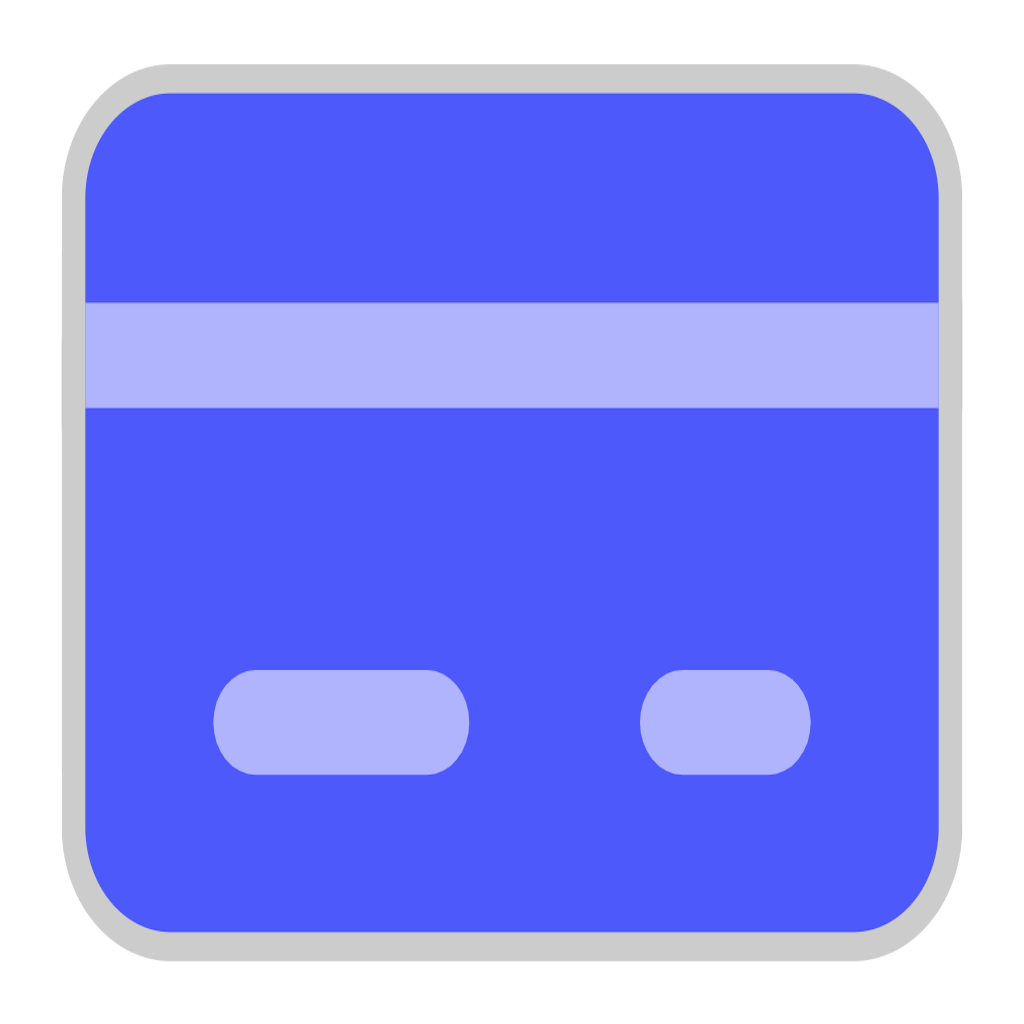
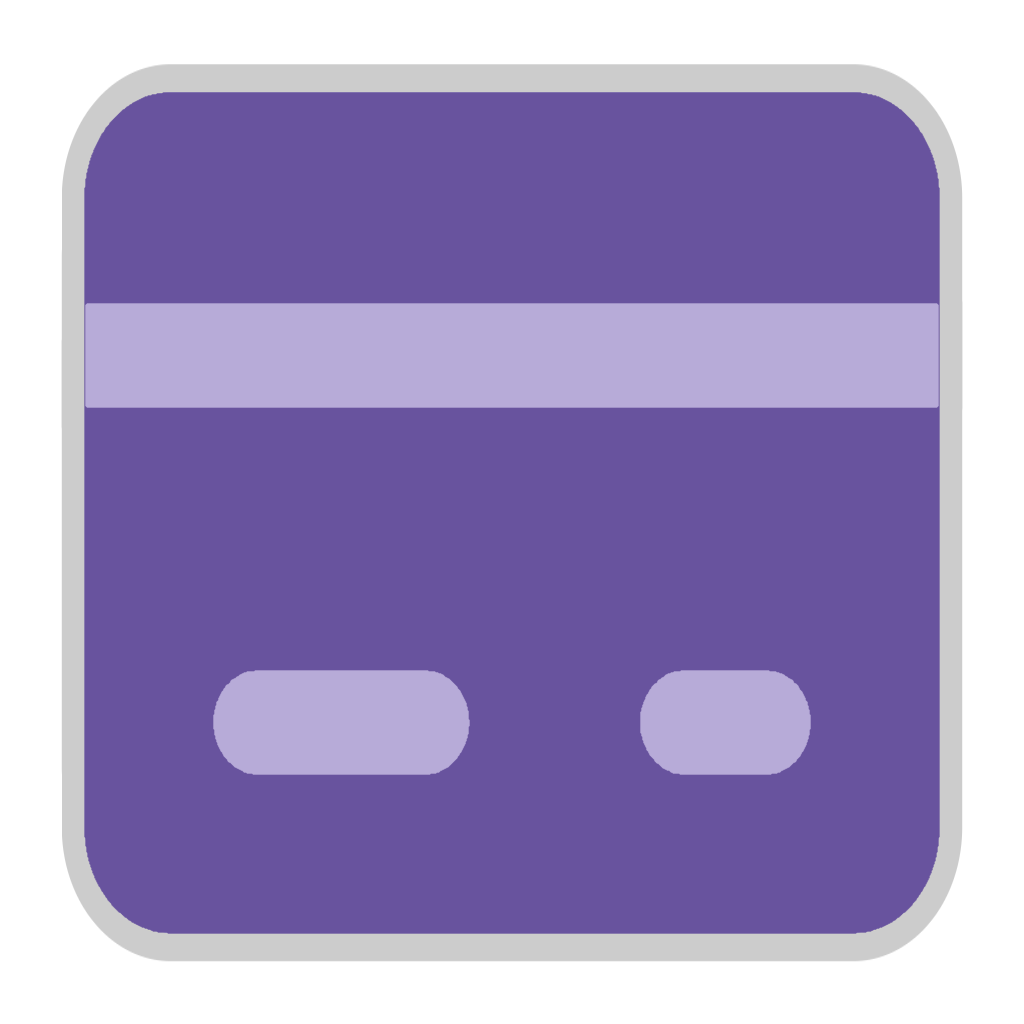
изменение цветовой гаммы всего

diff --git a/flip_cards_app/static/flip_cards_app/css/main.css b/flip_cards_app/static/flip_cards_app/css/main.css
@@ -27,12 +27,14 @@ h1 {
   text-align: center;
   /*font-family: cursive;*/
   /* font-family: "Pacifico", cursive; */
-  color: #afb4fd;
+  /* color: #afb4fd; */
+  color: #4A6042;
 }
 .all_text {
   /*font-family: cursive;
   /* font-family: "Pacifico", cursive; */
-  color: #afb4fd;
+  /* color: #afb4fd; */
+  color: #4A6042;
 }
 h4 {
   /*font-family: cursive;
@@ -51,13 +53,21 @@ span {
 }
 
 .pagination {
-  --bs-pagination-color: #4d59fb;
+  --bs-pagination-color: #68539E;
   --bs-pagination-hover-color: #6d6d6d;
-  --bs-pagination-active-color: #fff;
+  --bs-pagination-active-color: #eae7dc;
   --bs-pagination-active-border-color: #afb4fd;
-  --bs-pagination-active-bg: #4d59fb;
-  --bs-pagination-hover-bg: #9dcbf3;
+  --bs-pagination-active-bg: #68539E;
+  --bs-pagination-hover-bg: #B7ABD8;
   --bs-pagination-border-color: #afb4fd;
+}
+
+.navbar {
+  --bs-navbar-color: #4A6042
+}
+
+.card {
+  --bs-card-bg: #eae7dc;
 }
 
 /* select option:checked {
@@ -77,13 +87,13 @@ input[type="radio"] {
 }
 
 input[type="radio"]:checked + .btn {
-  color: #fff;
+  color: #eae7dc;
   background: #1b5589 !important;
   border-color: #1b5589 !important;
 }
 
 input[type="radio"]:hover + .btn {
-  color: #fff;
+  color: #eae7dc;
   background-color: #9dcbf3;
 }
 
@@ -112,7 +122,7 @@ button[type="reset"] {
   display: none;
   padding: 0 10px;
   border-radius: 50%;
-  background-color: #fff;
+  background-color: #eae7dc;
   transition: background 200ms;
   outline: none;
 
@@ -137,9 +147,7 @@ input:valid ~ button[type="reset"] {
   min-height: 10vh;
 }
 body {
-  /* background: -webkit-linear-gradient(-45deg, #8363a1 0%, #74a8c3 100%); */
-  /* background: linear-gradient(135deg, #8363a1 0%, #74a8c3 100%); } */
-  background: #4d59fb;
+  background: #B8CEB3;
 }
 h2 {
   text-align: center;
@@ -157,7 +165,7 @@ label, .helptext {
   text-align: center"
 }
 .card1 {
-  background-color: #fff;
+  background-color: #eae7dc;
   padding: 8px 11px;
   color: #555;
   cursor: pointer;
@@ -178,9 +186,9 @@ label, .helptext {
 }
 
 .black {
-  background-color: #1d2731;
-  color: #fff;
-  border-color: #1d2731;
+  background-color: #68539E;
+  color: #eae7dc;
+  border-color: #68539E;
 }
 .table {
   display: none;
@@ -192,18 +200,14 @@ label, .helptext {
 }
 
 .btn-primary {
-  background-color: #4d59fb !important;
+  background-color: #68539E !important;
   border-color: #afb4fd !important;
 
   &:hover {
-    background-color:  #9dcbf3 !important;
-    border-color:  #9dcbf3 !important;
-    color: #4d59fb !important;
+    background-color:  #B7ABD8 !important;
+    border-color:  #B7ABD8 !important;
+    color: #68539E !important;
   }
-    /* --bs-pagination-color: #4d59fb;
-  --bs-pagination-hover-color: #6d6d6d;
-  --bs-pagination-active-color: #fff;
-  --bs-pagination-active-border-color: #afb4fd; */
 }
 
 @media (max-width:760px) {

diff --git a/flip_cards_app/templates/includes/word_preview_favorite.html b/flip_cards_app/templates/includes/word_preview_favorite.html
@@ -11,16 +11,16 @@
     <div class="col-md-9">
       <div class="card-header d-flex">
         {% if word.is_learned %}
-            <a href="#" class="learned-btn" data-word-id="{{ word.id }}"><i title="Слово изучено" class="bbi bi-patch-check-fill ms-2 h5"></i></a>
+            <a href="#" class="learned-btn" data-word-id="{{ word.id }}"><i title="Слово изучено" class="bbi bi-patch-check-fill ms-2 h5"  style="color:#68539E"></i></a>
         {% else %}
-            <a href="#" class="learned-btn" data-word-id="{{ word.id }}"><i title="Слово не изучено" class="bi bi-patch-check ms-2 h5"></i></a>
+            <a href="#" class="learned-btn" data-word-id="{{ word.id }}"><i title="Слово не изучено" class="bi bi-patch-check ms-2 h5"  style="color:#68539E"></i></a>
         {% endif %}
-            <a href="#" class="favorites-button favorited" data-word-id="{{ word.word.id }}"><i title="Добавить/удалить слово в избранное" class="bi bi-star-fill ms-2 h5"></i></a>
+            <a href="#" class="favorites-button favorited" data-word-id="{{ word.word.id }}"><i title="Добавить/удалить слово в избранное" class="bi bi-star-fill ms-2 h5"  style="color:#68539E"></i></a>
         <span class="ms-auto"><i title="Количество правильных ответов" class="fa-regular fa-face-smile fa-xl" style="color: #31d41c;"></i> - {{ word.rights_word }} <i title="Количество неправильных ответов" class="fa-regular fa-face-angry fa-xl" style="color: #e70d0d;"></i> - {{ word.errors_word }}</span>    
       </div>
       <div class="card-body text-center">
         <h4 class="card-title">{{ word.word.en_word }}
-          <a href="#" class="play-audio-button" data-word="{{ word.word.en_word }}"><i class="bi bi-volume-up ms-2"></i></a>
+          <a href="#" class="play-audio-button" data-word="{{ word.word.en_word }}"><i class="bi bi-volume-up ms-2"  style="color:#68539E"></i></a>
         </h4>
         <p class="card-text text-muted">{{ word.word.transcription }}</p>
         <h4 class="card-text">{{ word.word.rus_word }}</h4>

diff --git a/flip_cards_app/templates/includes/word_preview.html b/flip_cards_app/templates/includes/word_preview.html
@@ -11,17 +11,17 @@
       <div class="card-header text-end">
         {% if user.is_authenticated %}
           {% if user in word.favorites_word.all %}
-            <a href="#" class="favorites-button favorited" data-word-id="{{ word.id }}"><i class="bi bi-star-fill ms-2 h5"></i></a>
+            <a href="#" class="favorites-button favorited" data-word-id="{{ word.id }}"><i class="bi bi-star-fill ms-2 h5"  style="color:#68539E"></i></a>
           {% else %}
-            <a href="#" class="favorites-button" data-word-id="{{ word.id }}"><i class="bi bi-star ms-2 h5"></i></a>
+            <a href="#" class="favorites-button" data-word-id="{{ word.id }}"><i class="bi bi-star ms-2 h5"  style="color:#68539E"></i></a>
           {% endif %}
         {% else %}
-            <a href="{% url 'users:login' %}"><i class="bi bi-star ms-2 h5"></i></a>
+            <a href="{% url 'users:login' %}"><i class="bi bi-star ms-2 h5" style="color:#68539E"></i></a>
         {% endif %} 
       </div>
       <div class="card-body text-center">
         <h4 class="card-title">{{ word.en_word }}
-          <a href="#" class="play-audio-button" data-word="{{ word.en_word }}"><i class="bi bi-volume-up ms-2"></i></a>
+          <a href="#" class="play-audio-button" data-word="{{ word.en_word }}"><i class="bi bi-volume-up ms-2"  style="color:#68539E"></i></a>
         </h4>
         <p class="card-text text-muted">{{ word.transcription }}</p>
         <h4 class="card-text">{{ word.rus_word }}</h4>

diff --git a/flip_cards_app/templates/includes/flip_card.html b/flip_cards_app/templates/includes/flip_card.html
@@ -13,7 +13,7 @@
           </div>
           <div class="back">
             <h2>{{ word.word.rus_word }}
-              <a href="#" class="play-audio-button" data-word="{{ word.word.en_word }}"><i class="bi bi-volume-up ms-2"></i></a>
+              <a href="#" class="play-audio-button" data-word="{{ word.word.en_word }}"><i class="bi bi-volume-up ms-2" style="color:#68539E"></i></a>
             </h2>
             <div class="card_footer">
               <button class="btn btn-primary learned-btn" data-word-id="{{ word.id }}""><i class="bbi bi-patch-check-fill me-2"></i>Запомнил</button>

diff --git a/flip_cards_app/static/flip_cards_app/js/main.js b/flip_cards_app/static/flip_cards_app/js/main.js
@@ -14,15 +14,15 @@ let correct_style = `
     background-color: #73A720;
     border-color : #68961D;`
 let select_style = `
-    background-color: #3F88C5;
-    border-color : #3A7CB4;`
+    background-color: #B7ABD8;
+    border-color : #B7ABD8;`
 let light_style = `
-    background-color: #FFF;
+    background-color: #eae7dc;
     border-color : #CCC;
     color: #666;`
 let dark_style = `
-    background-color: #1d2731;
-    border-color : #1d2731;
+    background-color: #68539E;
+    border-color : #68539E;
     color: #FFF;`    
 
 function save_results(word_id, errors, rights) {

diff --git a/flip_cards_app/templates/words/catalog.html b/flip_cards_app/templates/words/catalog.html
@@ -19,8 +19,7 @@
                          aria-label="Поиск слов..."
                          name="search_query"
                          value="{{ request.GET.search_query }}">
-                  <button class="btn btn-outline-secondary"
-                          style="background-color: #4d59fb"
+                  <button class="btn btn-primary"
                           type="submit">
                      <i class="bi bi-search"></i>
                   </button>

diff --git a/flip_cards_app/templates/words/catalog_favorite.html b/flip_cards_app/templates/words/catalog_favorite.html
@@ -19,8 +19,7 @@
                          aria-label="Поиск слов..."
                          name="search_query"
                          value="{{ request.GET.search_query }}">
-                  <button class="btn btn-outline-secondary"
-                          style="background-color: #4d59fb"
+                  <button class="btn btn-primary"
                           type="submit">
                      <i class="bi bi-search"></i>
                   </button>

diff --git a/flip_cards_app/templates/words/flip_catalog.html b/flip_cards_app/templates/words/flip_catalog.html
@@ -21,8 +21,7 @@
                          aria-label="Поиск слов..."
                          name="search_query"
                          value="{{ request.GET.search_query }}">
-                  <button class="btn btn-outline-secondary"
-                          style="background-color: #4d59fb"
+                  <button class="btn btn-primary"
                           type="submit">
                      <i class="bi bi-search"></i>
                   </button>

diff --git a/templates/include/nav_menu.html b/templates/include/nav_menu.html
@@ -1,6 +1,5 @@
 <!--Меню было вставлено через include в базовый шаблон-->
-<nav class="navbar navbar-expand-lg navbar-dark"
-     style="background-color: #4d59fb">
+<nav class="navbar navbar-expand-lg">
   <div class="container-fluid">
     <!-- Логотип и кнопка для мобильных версий -->
     <button class="navbar-toggler"

diff --git a/flip_cards_app/static/flip_cards_app/css/style_flip.css b/flip_cards_app/static/flip_cards_app/css/style_flip.css
@@ -60,7 +60,11 @@ body {
 .front {
   font-weight: 700;
   font-size: 1rem;
-  background-image: linear-gradient(90deg, #4776e6, #8e54e9);
+  background-image: linear-gradient(
+    90deg,
+    rgba(104, 83, 158, 1) 21%,
+    rgba(234, 231, 220, 1) 85%
+  );
 }
 
 .card_footer {
